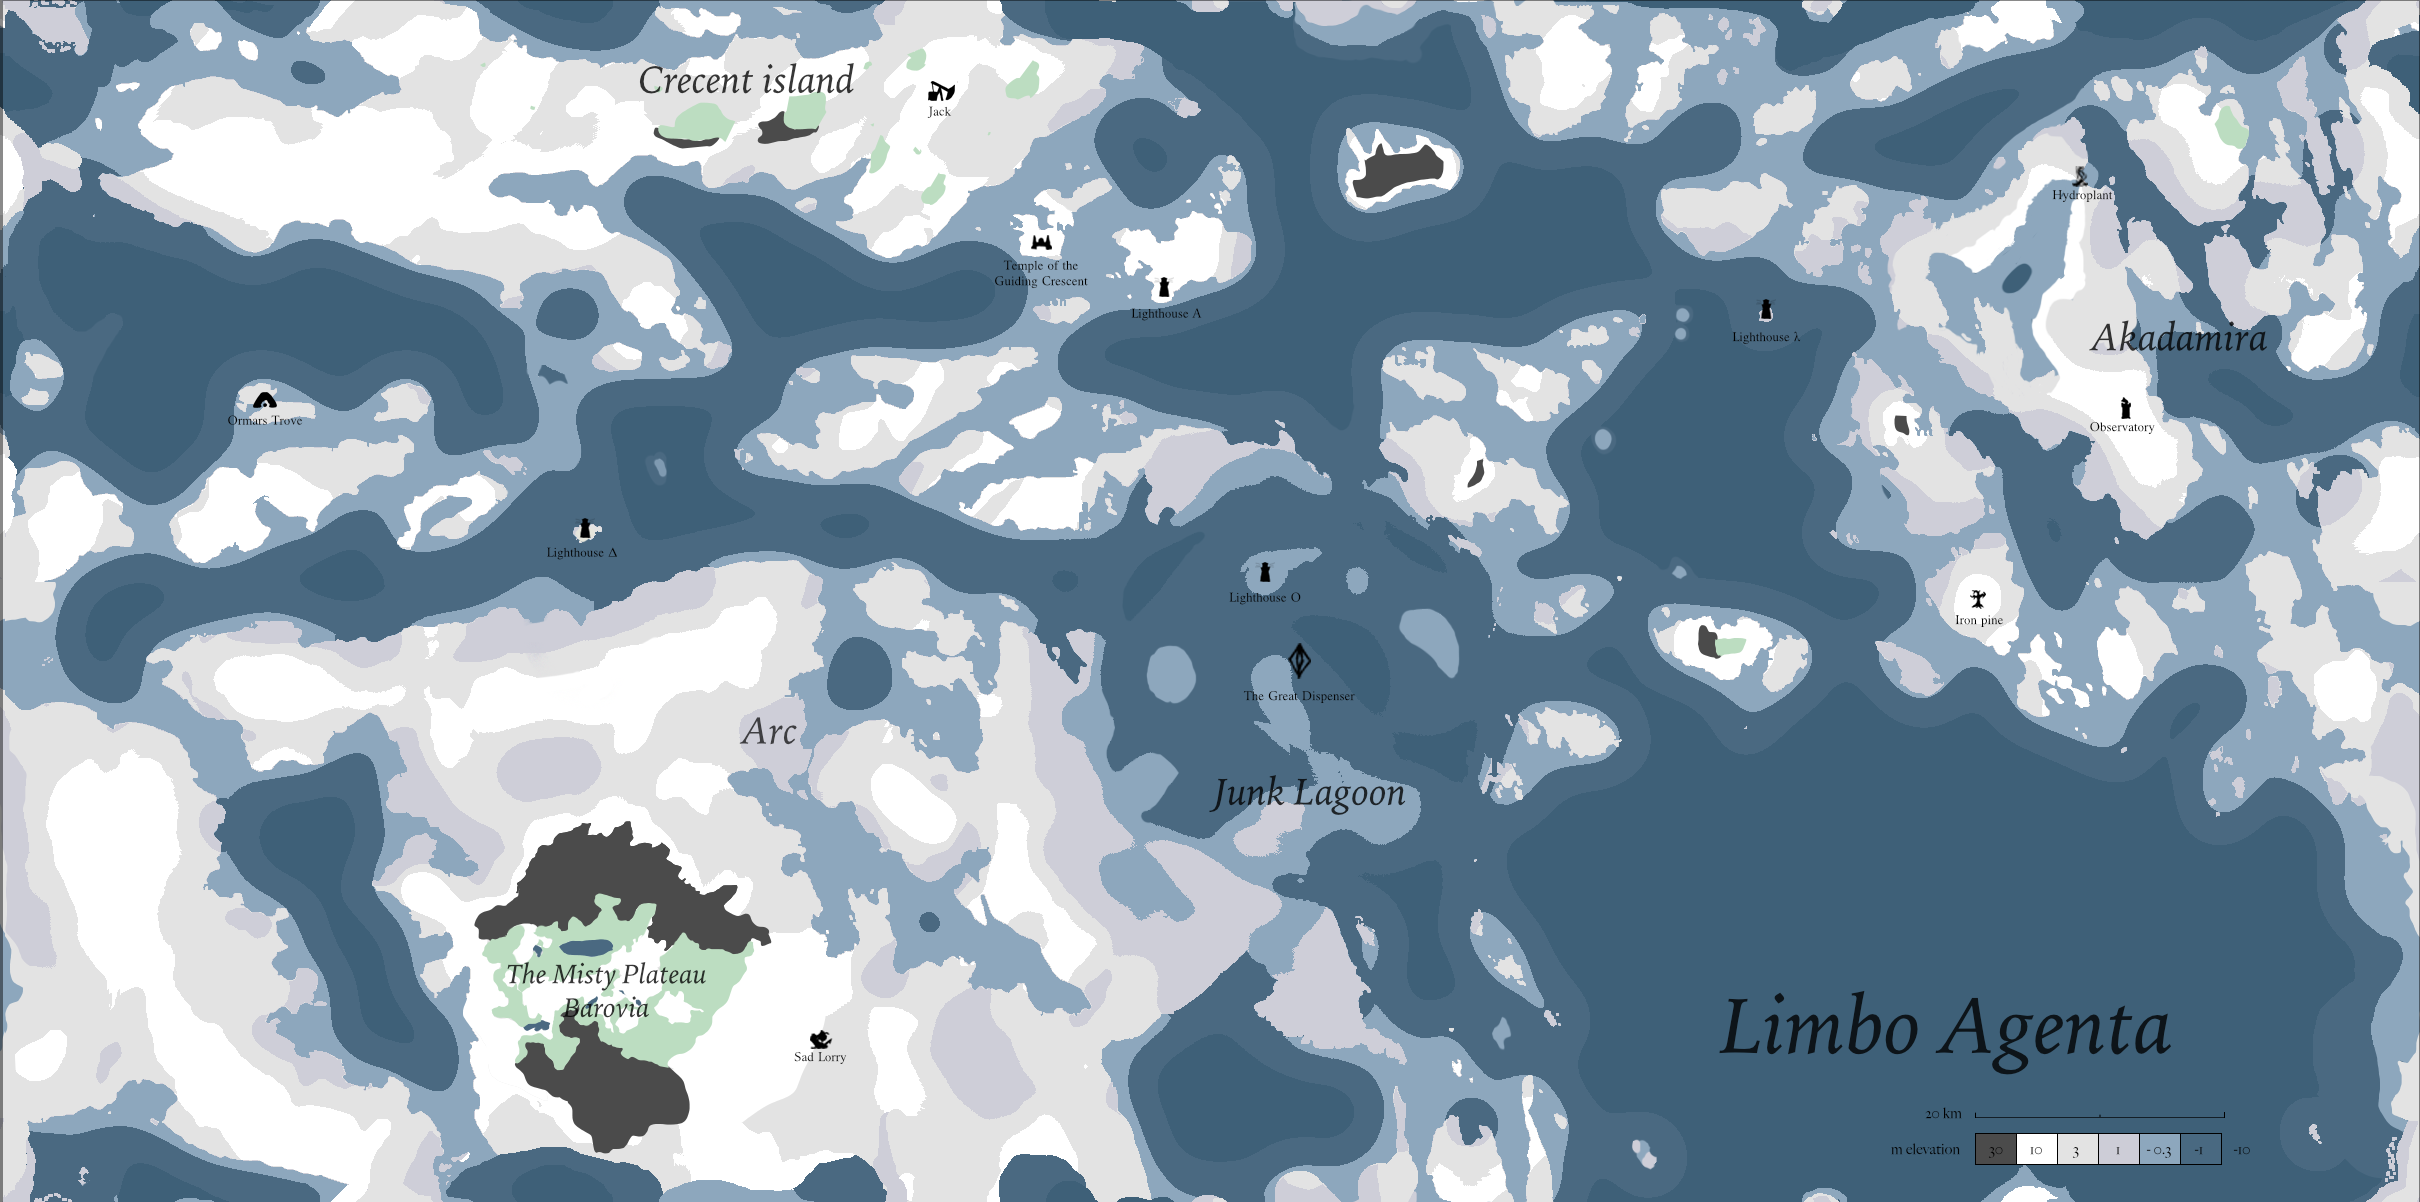
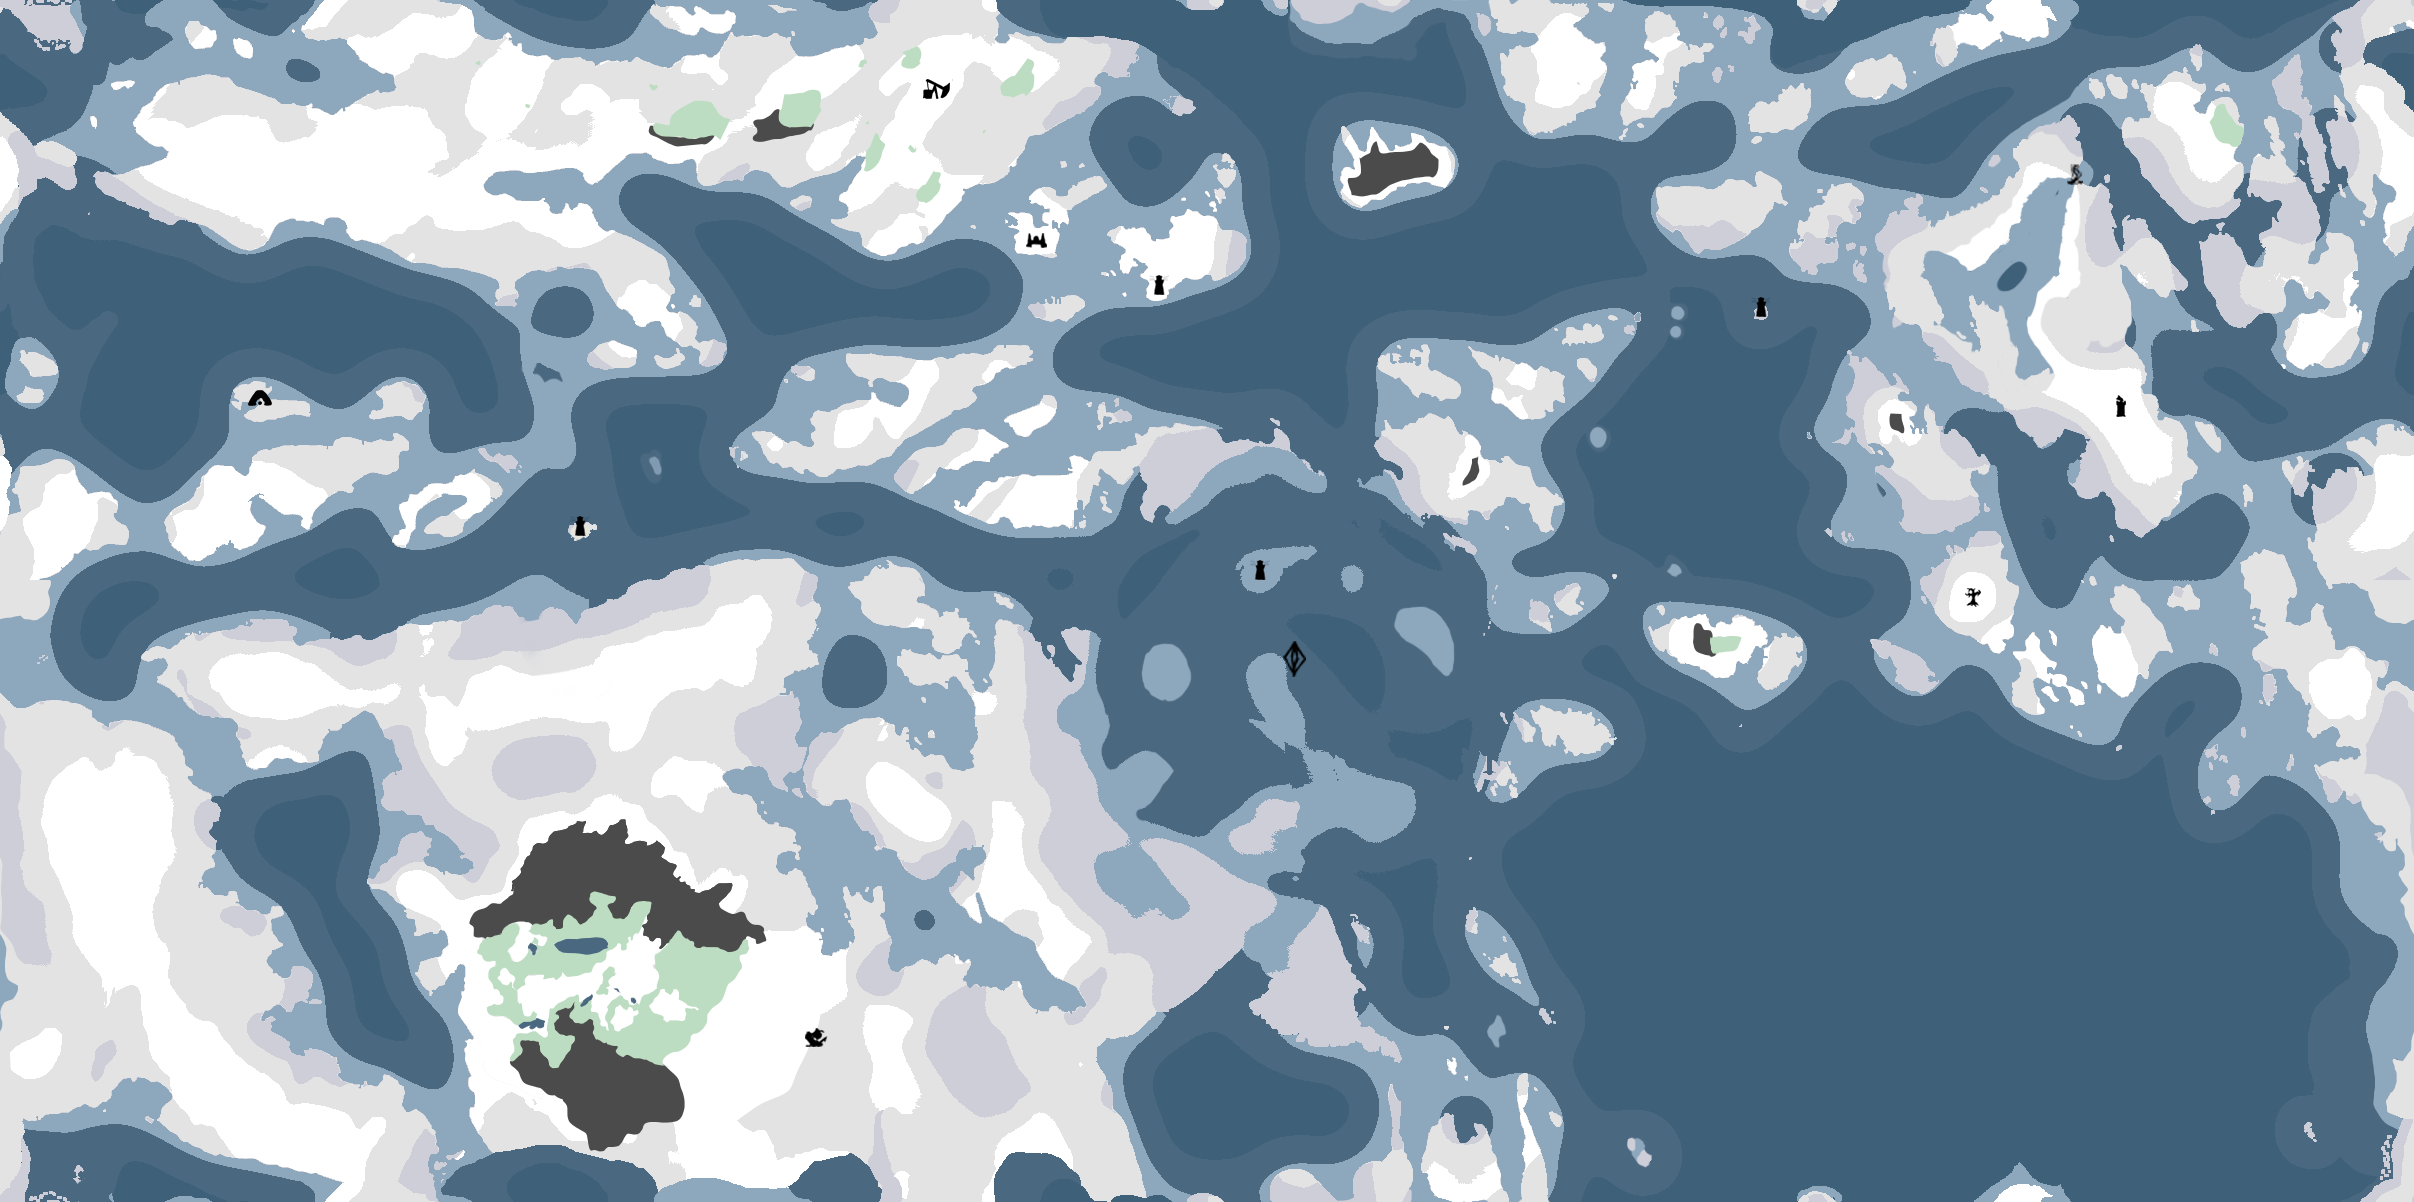
Deploy

diff --git a/docs/agenta_map.js b/docs/agenta_map.js
@@ -520,17 +520,11 @@ Module.STDWEB_PRIVATE.acquire_tmp = function( dummy ) {
             "__extjs_4cc2b2ed53586a2bd32ca2206724307e82bb32ff": function($0, $1) {
                 $0 = Module.STDWEB_PRIVATE.to_js($0);$1 = Module.STDWEB_PRIVATE.to_js($1);($0). appendChild (($1));
             },
-            "__extjs_4fe9b16b11b1a72ce984d2383942d3760e948f34": function() {
-                document.body.style.margin = 0 ; document.body.style.overflow = "hidden" ;
-            },
             "__extjs_5984245de8b6ef88f693ba2383ebf3c2f9718c6c": function($0) {
                 var o = Module.STDWEB_PRIVATE.acquire_js_reference( $0 );return (o instanceof HTMLCanvasElement) | 0;
             },
             "__extjs_5ecfd7ee5cecc8be26c1e6e3c90ce666901b547c": function($0, $1) {
                 $1 = Module.STDWEB_PRIVATE.to_js($1);Module.STDWEB_PRIVATE.from_js($0, (function(){return ($1). error ;})());
-            },
-            "__extjs_5ef77090a706b94ec2278a7613302d6623659179": function($0, $1, $2, $3, $4, $5) {
-                $0 = Module.STDWEB_PRIVATE.to_js($0);$1 = Module.STDWEB_PRIVATE.to_js($1);$2 = Module.STDWEB_PRIVATE.to_js($2);$3 = Module.STDWEB_PRIVATE.to_js($3);$4 = Module.STDWEB_PRIVATE.to_js($4);$5 = Module.STDWEB_PRIVATE.to_js($5);let canvas = ($0); function update (dt){($1)(dt); window.requestAnimationFrame (update);}function resize (){canvas.width = window.innerWidth ; canvas.height = window.innerHeight ; update (0);}canvas.addEventListener ("mousedown" , (e)=> {($2)();}); canvas.addEventListener ("mouseup" , (e)=> {($3)();}); canvas.addEventListener ("mousemove" , (e)=> {($4)(e.movementX , e.movementY);}); canvas.addEventListener ("mouseout" , (e)=> {($5)();}); window.addEventListener ("resize" , resize); resize ();
             },
             "__extjs_6665489d4099b58ea29d83630ab4c8be80d7387e": function($0, $1) {
                 $1 = Module.STDWEB_PRIVATE.to_js($1);Module.STDWEB_PRIVATE.from_js($0, (function(){return ($1). body ;})());
@@ -549,6 +543,12 @@ Module.STDWEB_PRIVATE.acquire_tmp = function( dummy ) {
             },
             "__extjs_89611721005b3de331324f19bedec5df179862e4": function($0) {
                 var o = Module.STDWEB_PRIVATE.acquire_js_reference( $0 );return (o instanceof CanvasRenderingContext2D) | 0;
+            },
+            "__extjs_93fc43376eb4c850d10102acd0e7309db1ebf9cb": function($0, $1, $2, $3, $4) {
+                $0 = Module.STDWEB_PRIVATE.to_js($0);$1 = Module.STDWEB_PRIVATE.to_js($1);$2 = Module.STDWEB_PRIVATE.to_js($2);$3 = Module.STDWEB_PRIVATE.to_js($3);$4 = Module.STDWEB_PRIVATE.to_js($4);let canvas = ($0); canvas.style.cursor = "grab" ; function update (dt){($1)(dt); window.requestAnimationFrame (update);}function resize (){canvas.width = window.innerWidth ; canvas.height = window.innerHeight ; update (0);}let mouse_down = ($2); let mouse_up = ($3); let mouse_move = ($4); canvas.addEventListener ("mousedown" , (e)=> {console.log ("down" , e.screenX , e.screenY); mouse_down (e.screenX , e.screenY); canvas.style.cursor = "grabbing" ;}); canvas.addEventListener ("mouseup" , (e)=> {mouse_up (); canvas.style.cursor = "grab" ;}); canvas.addEventListener ("mousemove" , (e)=> {mouse_move (e.screenX , e.screenY);}); canvas.addEventListener ("touchstart" , (e)=> {mouse_down (e.touches [0]. screenX , e.touches [0]. screenY);}); canvas.addEventListener ("touchend" , (e)=> {mouse_up ();}); canvas.addEventListener ("touchmove" , (e)=> {mouse_move (e.touches [0]. screenX , e.touches [0]. screenY);}); canvas.addEventListener ("mouseout" , (e)=> {mouse_up ();}); window.addEventListener ("resize" , resize); resize ();
+            },
+            "__extjs_9a5480d0ac5ce27241c56a317ff1b22de9476052": function() {
+                document.body.style.margin = 0 ; let legend = document.createElement ("img"); legend.src = "legend.png" ; legend.style.position = "absolute" ; legend.style.right = 0 ; legend.style.bottom = 0 ; legend.style.margin = "30px" ; legend.style ["pointer-events"]= "none" ; document.body.appendChild (legend); document.body.style.overflow = "hidden" ;
             },
             "__extjs_9f22d4ca7bc938409787341b7db181f8dd41e6df": function($0) {
                 Module.STDWEB_PRIVATE.increment_refcount( $0 );
